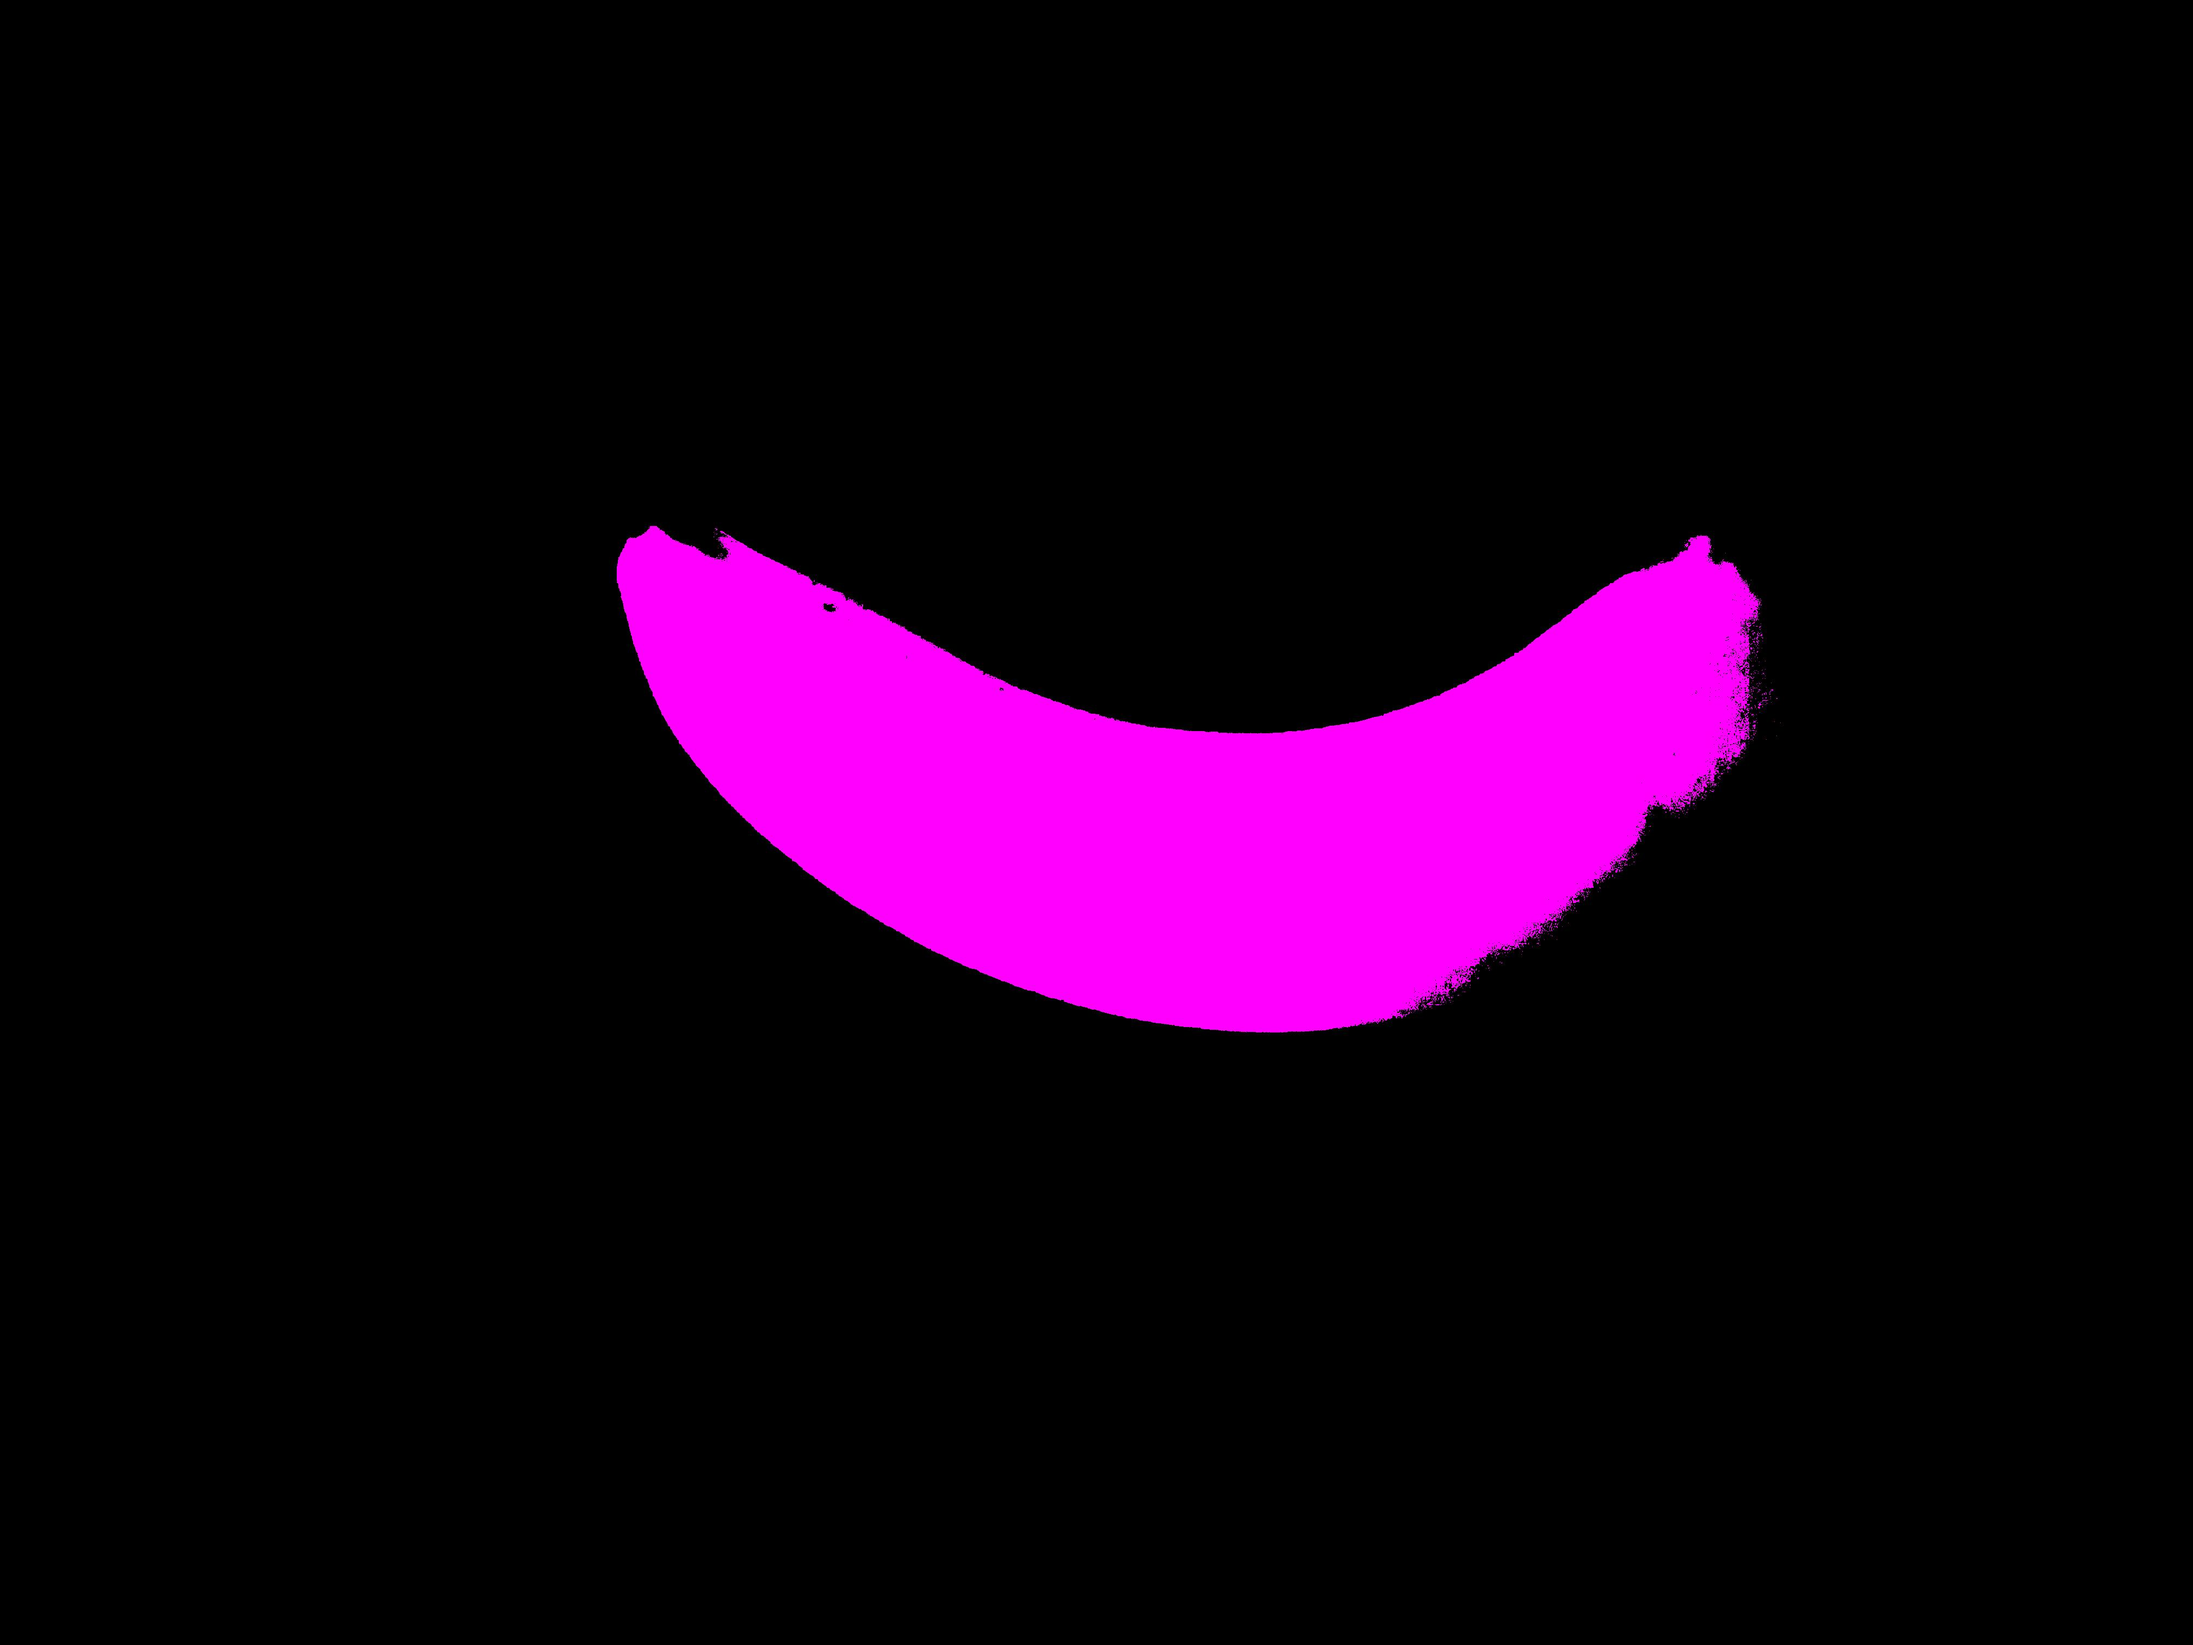
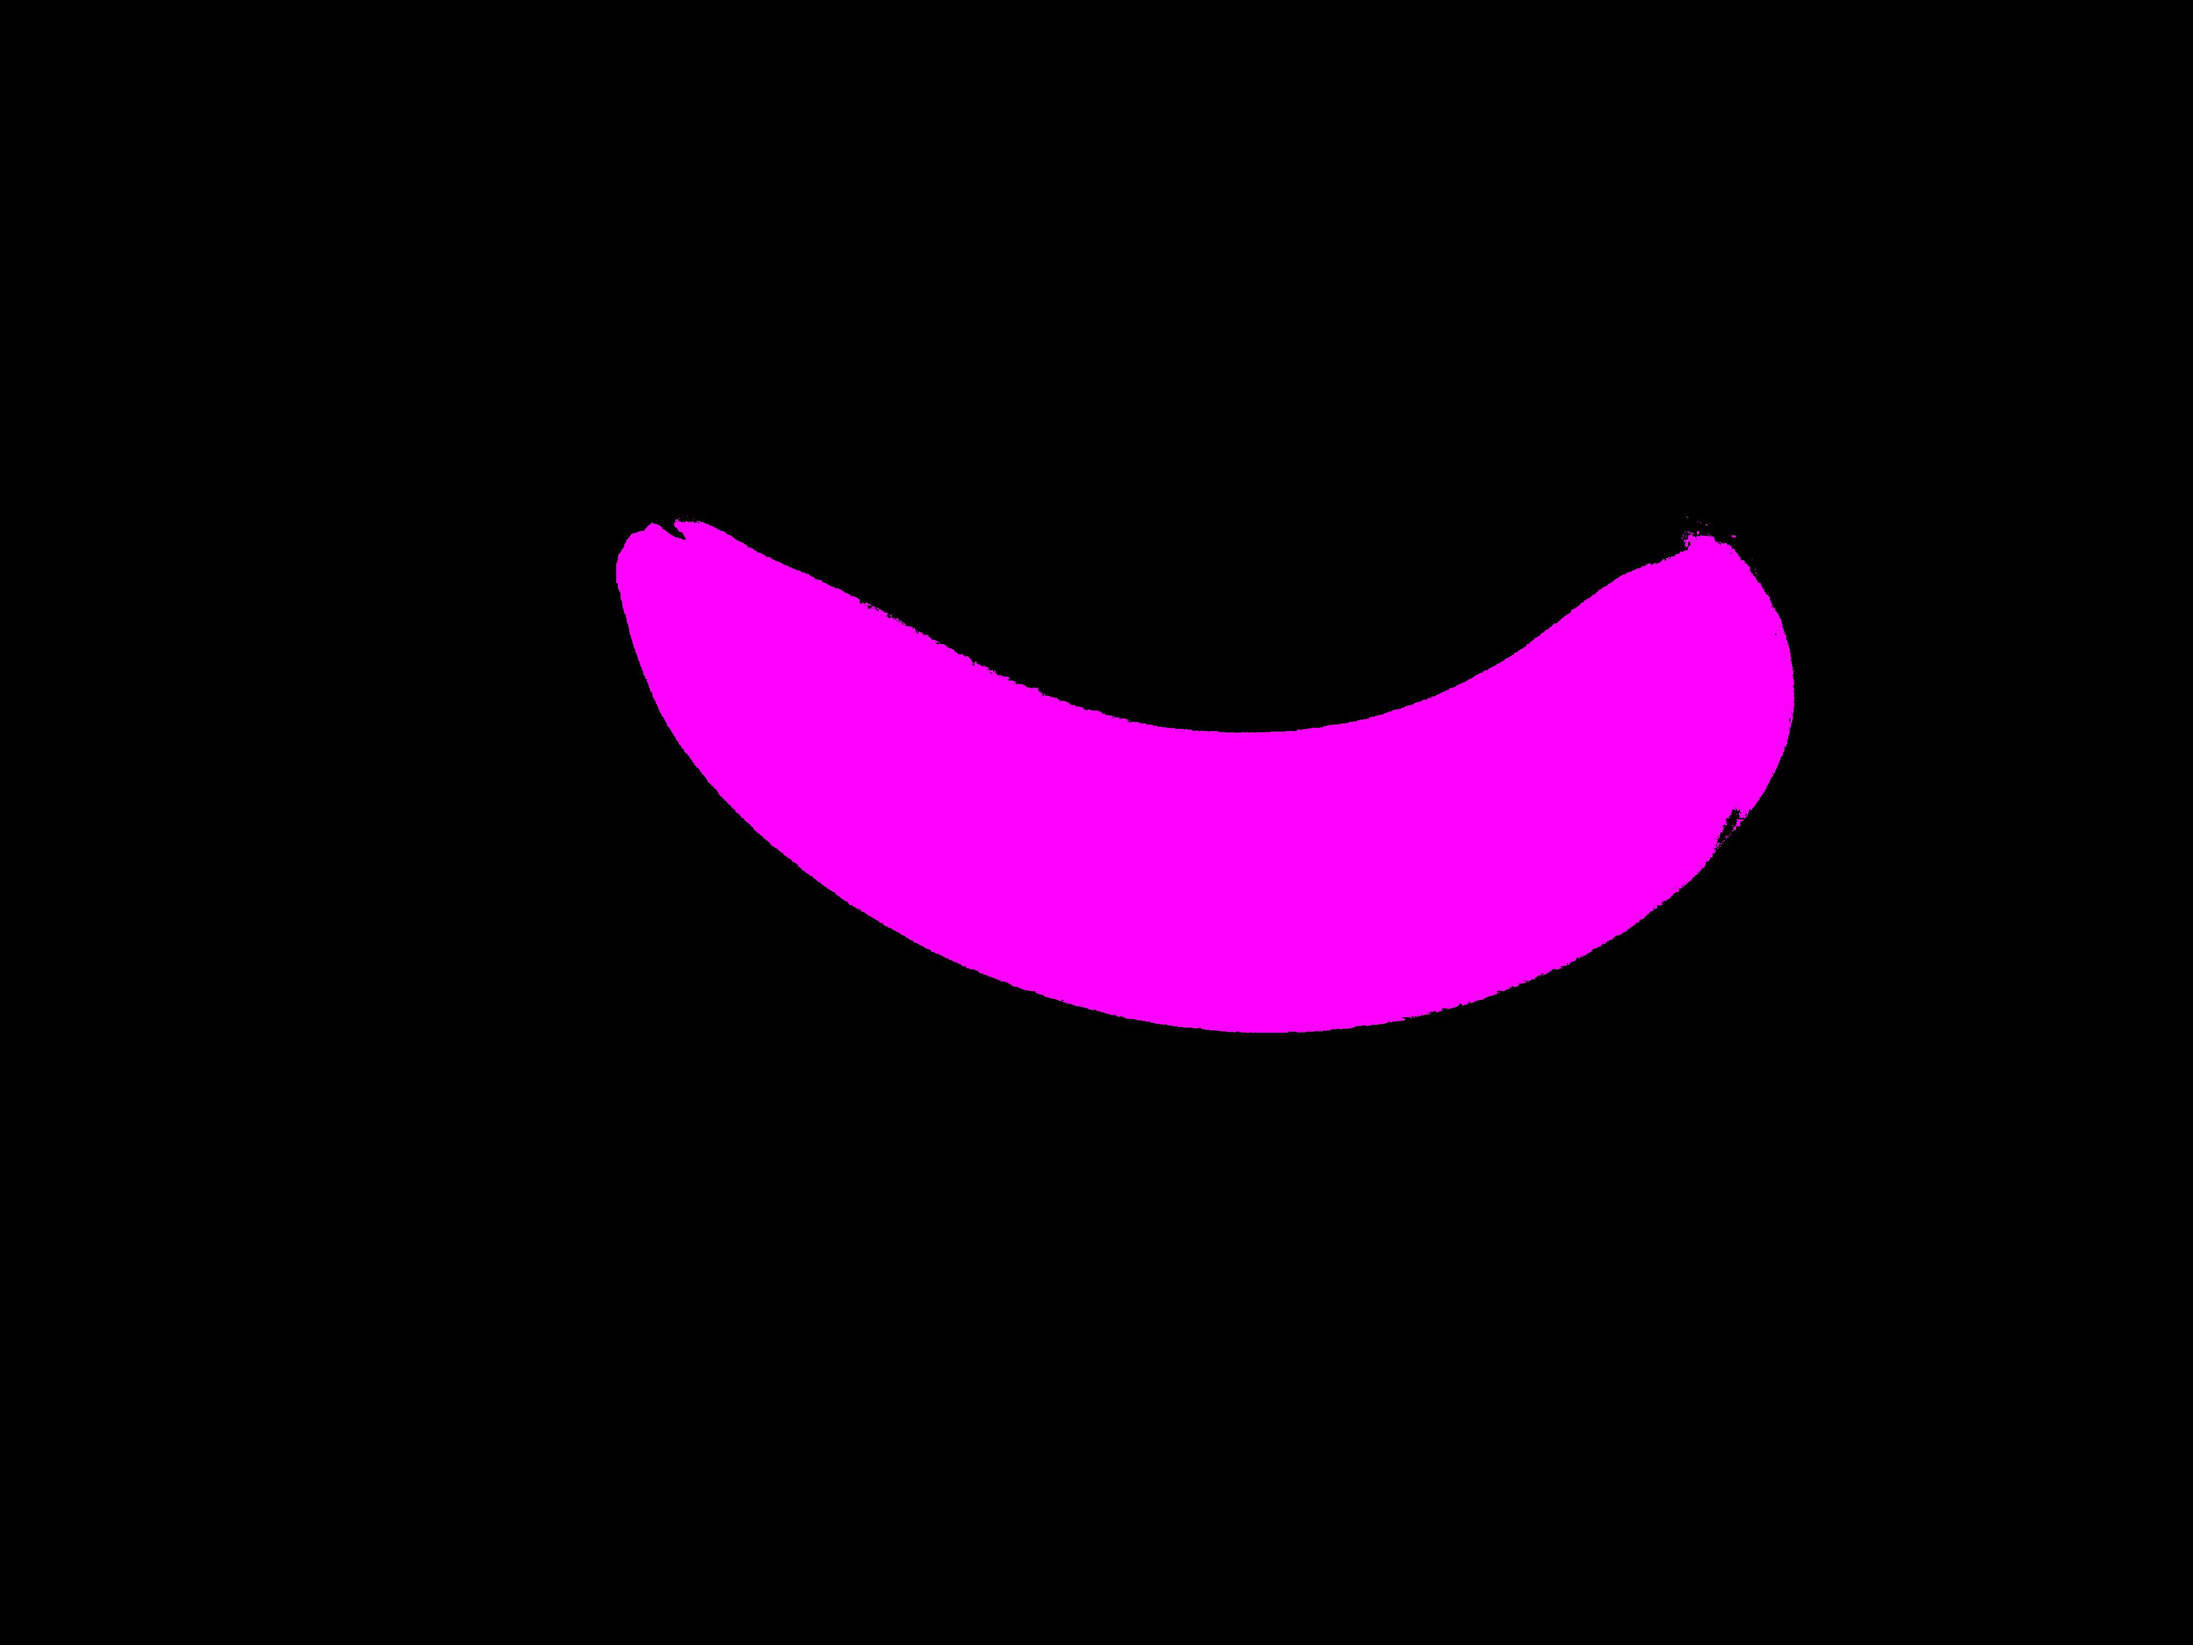
changed banana Image to calculate length per line

diff --git a/demo/src/main/java/com/example/BananaImage.java b/demo/src/main/java/com/example/BananaImage.java
@@ -3,8 +3,6 @@ package com.example;
 import java.awt.Color;
 import java.awt.Graphics2D;
 import java.awt.RenderingHints;
-import java.awt.geom.AffineTransform;
-import java.awt.image.AffineTransformOp;
 import java.awt.image.BufferedImage;
 import java.io.File;
 import java.io.IOException;
@@ -25,26 +23,10 @@ public class BananaImage {
         BufferedImage image;
         boolean flip = false;
         if (oldImage.getWidth() < oldImage.getHeight()) {
-            flip = true;
+            imageHeight = imageWidth;
+            imageWidth = 4032;
         }
         image = StandardizedImage(oldImage, imageHeight, imageWidth, flip);
-
-    public BananaImage(BufferedImage image) {
-
-    }
-
-    /**
-     * Determines if a given photo is a banana.
-     * 
-     * @param image     The buffered image.
-     * @param imageName The name of the image.
-     * @return True if it is a banana, false if not.
-     * @author Malahci
-     */
-    public static boolean isBanana(BufferedImage image, String imageName) {
-        int imageWidth = image.getWidth();
-        int imageHeight = image.getHeight();
-        boolean isBanana = false;
         int firstX = -1;
         int lastX = -1;
         int longestX = -1;
@@ -83,7 +65,7 @@ public class BananaImage {
                 System.out.println("did not work");
             }
         } catch (IOException e) {
-            // TODO Auto-generated catch block
+
             e.printStackTrace();
         }
 
@@ -108,7 +90,7 @@ public class BananaImage {
      * 
      * @param scanner A scanner .
      * @return The name of the picture chosen.
-     * @author Malahci.
+     * @author Malachi.
      */
     public static String choosePicture(Scanner scanner) {
         String[] files;
@@ -134,13 +116,6 @@ public class BananaImage {
     }
 
     private static BufferedImage StandardizedImage(BufferedImage image, int newHeight, int newWidth, boolean flip) {
-        if (flip) {
-            // Flip the image horizontally
-            AffineTransform tx = AffineTransform.getScaleInstance(-1, 1);
-            tx.translate(-image.getWidth(null), 0);
-            AffineTransformOp op = new AffineTransformOp(tx, AffineTransformOp.TYPE_NEAREST_NEIGHBOR);
-            image = op.filter(image, null);
-        }
         BufferedImage newImage = new BufferedImage(newWidth, newHeight, image.getType());
         Graphics2D g2d = newImage.createGraphics();
         g2d.setRenderingHint(RenderingHints.KEY_INTERPOLATION, RenderingHints.VALUE_INTERPOLATION_BILINEAR); // For

diff --git a/demo/src/main/java/com/example/Main.java b/demo/src/main/java/com/example/Main.java
@@ -1,6 +1,5 @@
 package com.example;
 
-import java.awt.Image;
 import java.awt.image.BufferedImage;
 import java.io.File;
 import java.io.IOException;
